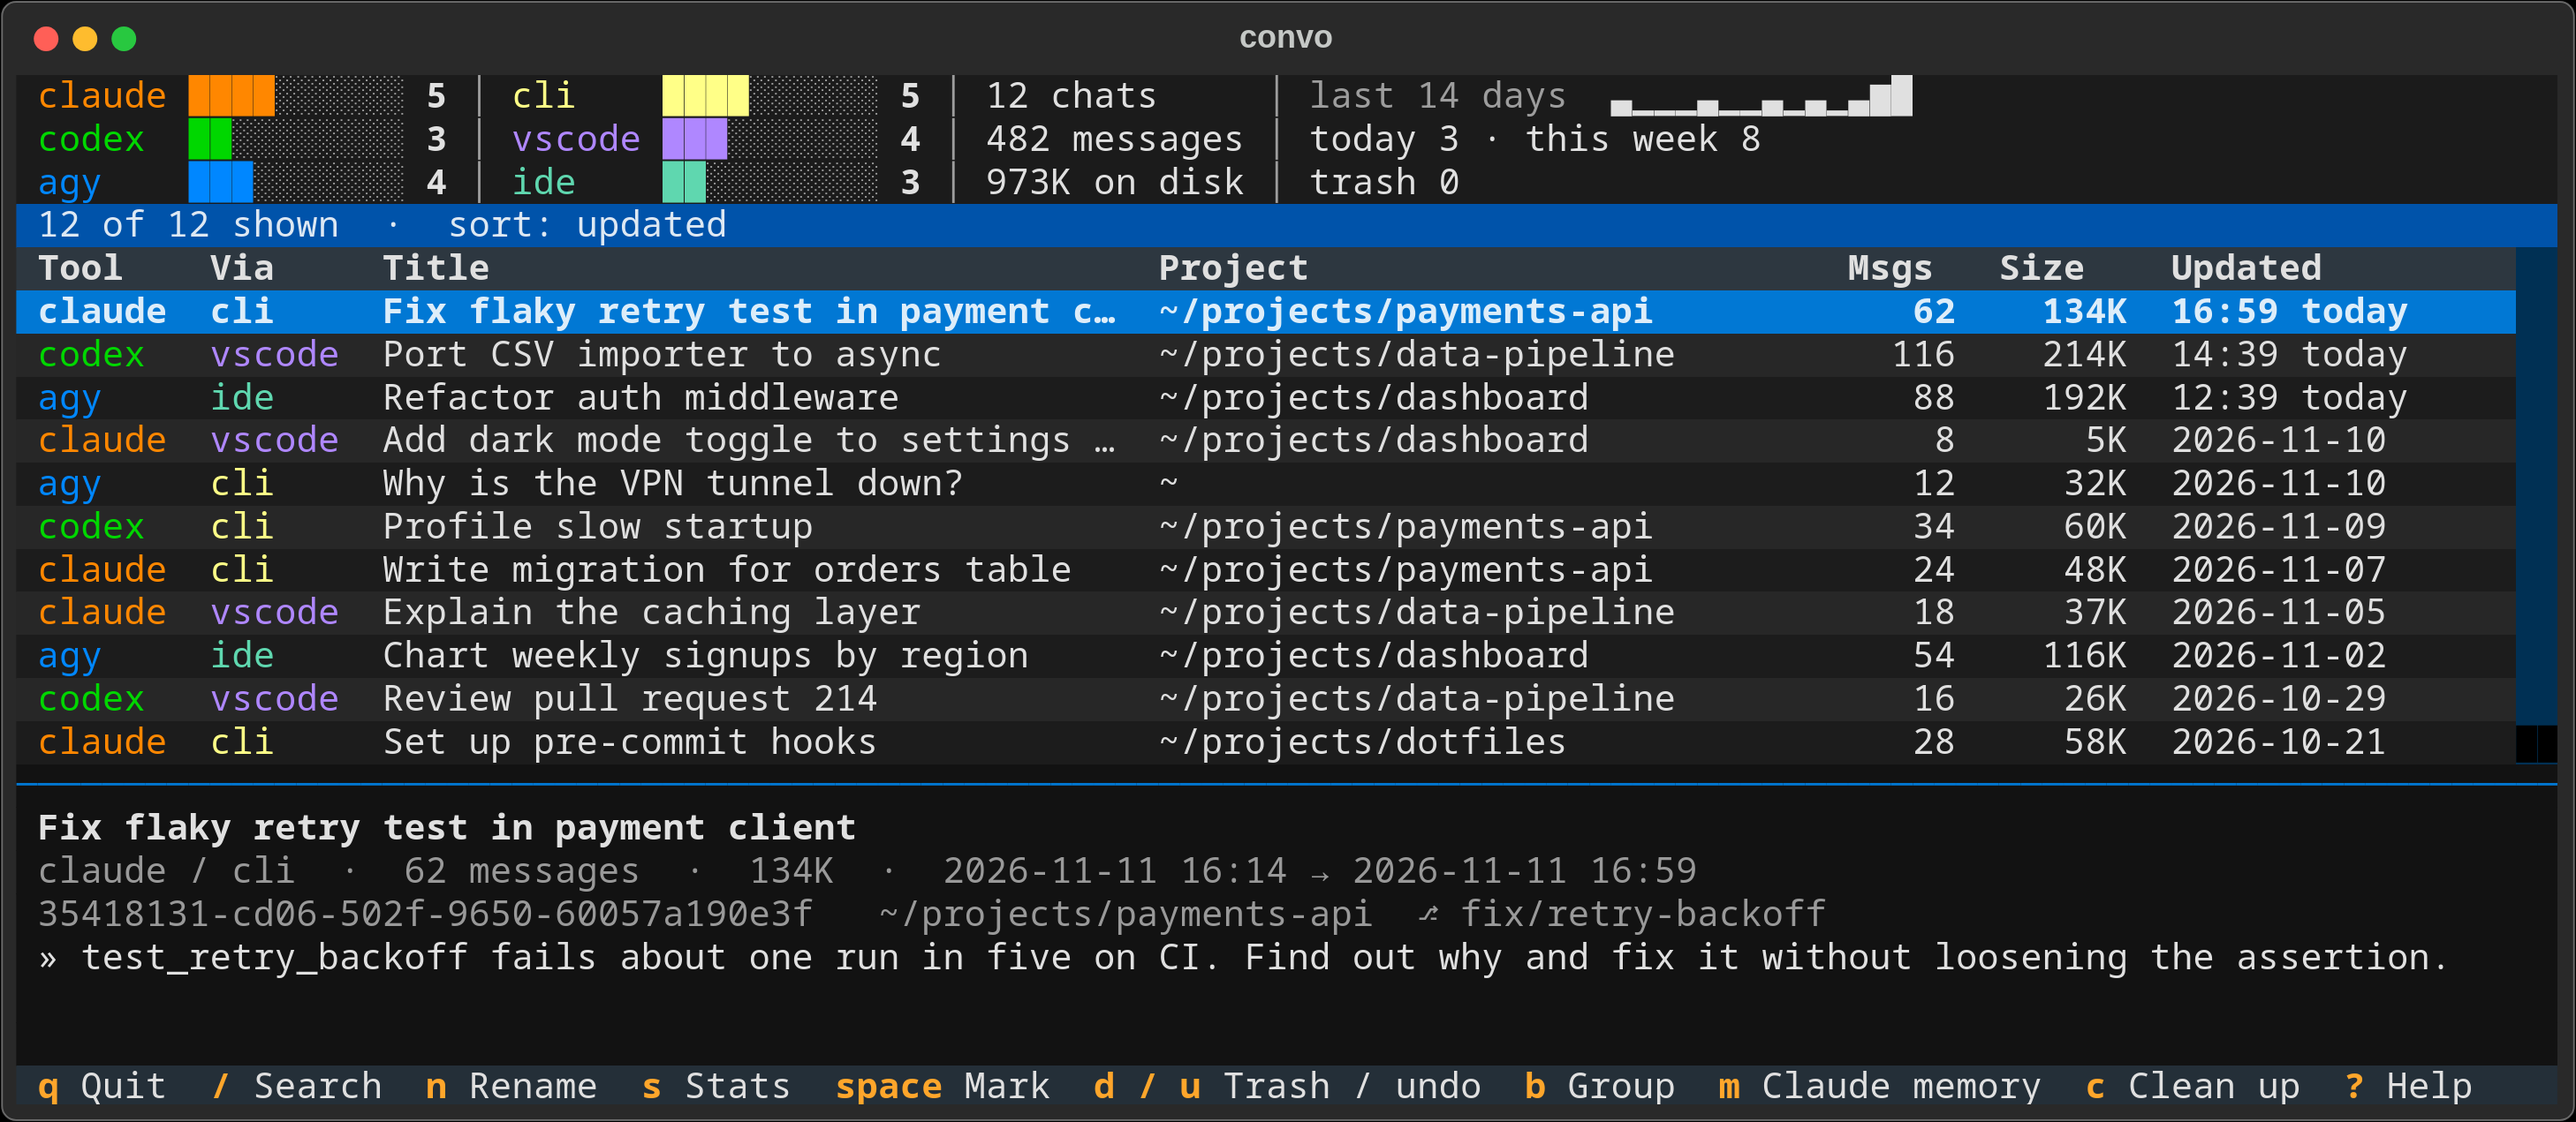
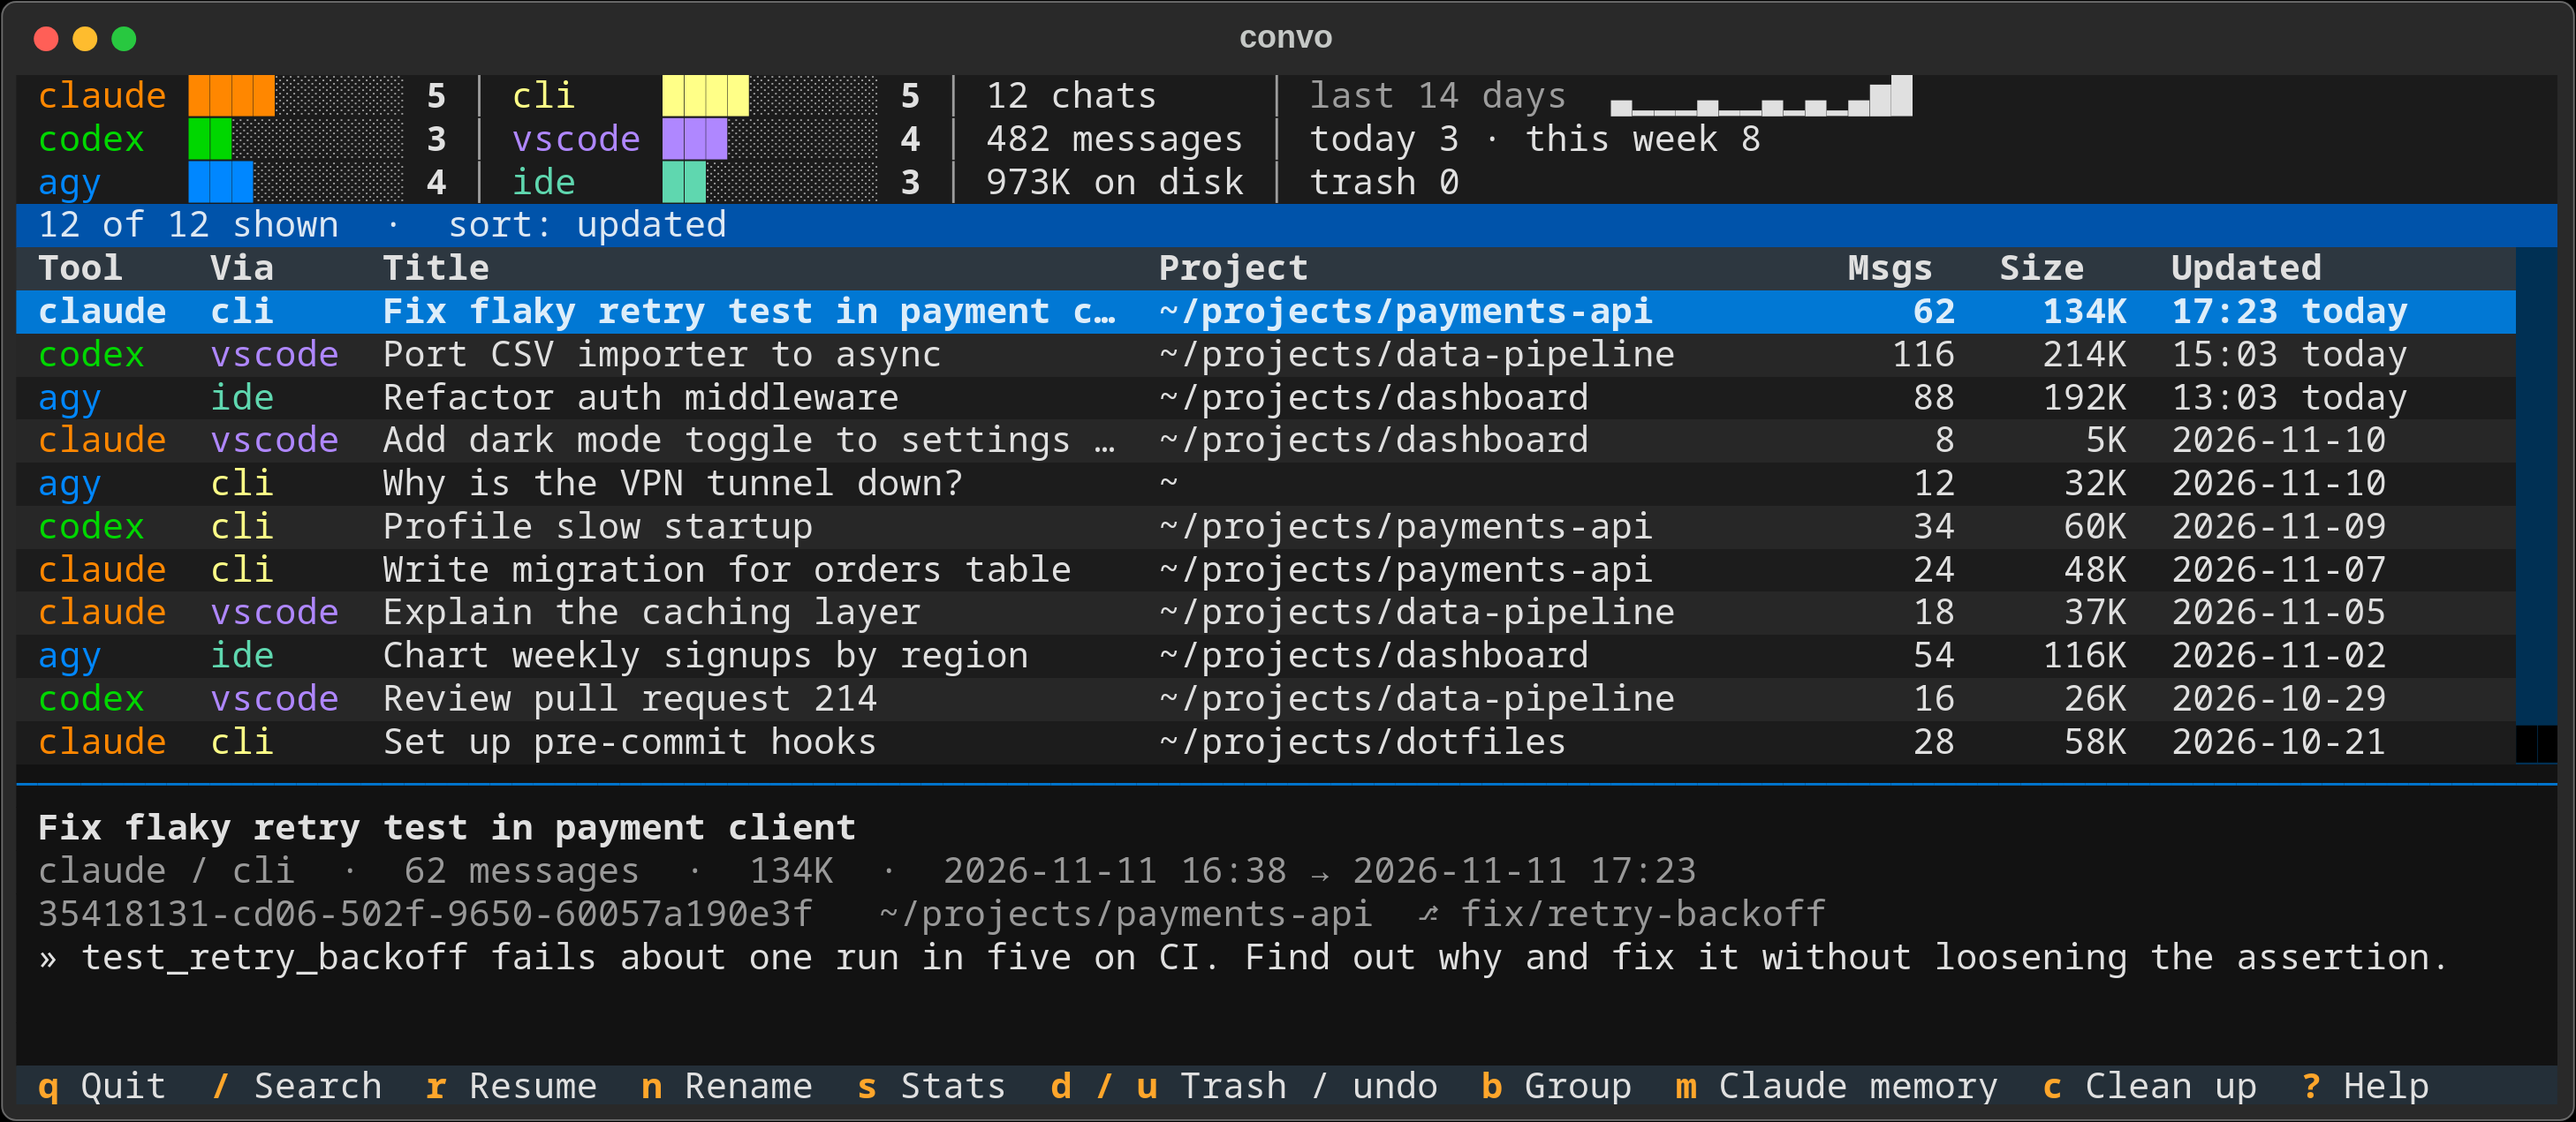
Show Resume on the bottom bar
Mark moves to the ? help to make room; screenshot and demo redrawn.

diff --git a/src/convo/tui.py b/src/convo/tui.py
@@ -558,10 +558,10 @@ class ConvoApp(App):
         Binding("slash", "filter", "Search"),
         Binding("t", "tool", "Tool", show=False),
         Binding("o", "sort", "Sort", show=False),
-        Binding("r", "resume", "Resume", show=False),
+        Binding("r", "resume", "Resume"),
         Binding("n", "rename", "Rename"),
         Binding("s", "stats", "Stats"),
-        Binding("space", "mark", "Mark"),
+        Binding("space", "mark", "Mark", show=False),  # in the ? help; the bar has no room for it
         Binding("d", "trash", "Trash", key_display="d /", group=TRASH_KEYS),
         Binding("u", "undo", "Undo trash", group=TRASH_KEYS),
         Binding("e", "export('md')", "Export", show=False),
